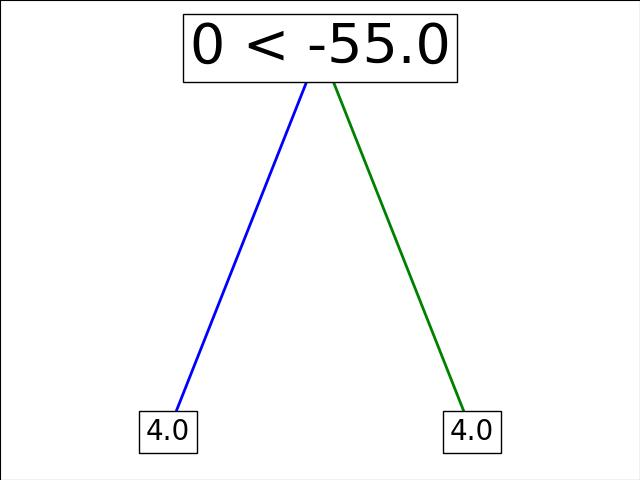
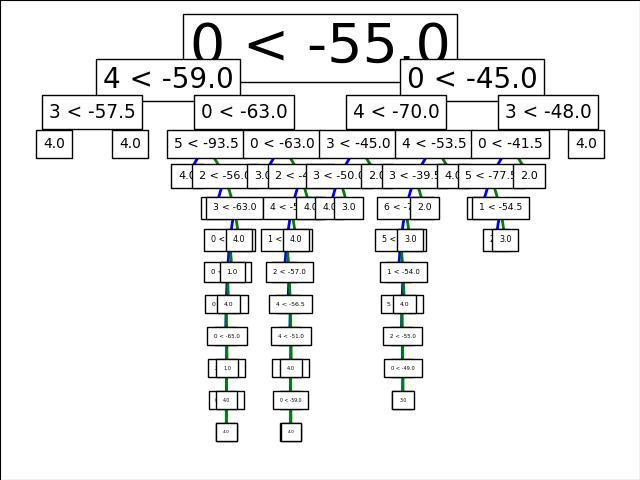
contains examples for the report

Changed region(s): [[0.0312, 0.0938, 0.9688, 0.9688]]

diff --git a/CW1/main.py b/CW1/main.py
@@ -71,6 +71,6 @@ if __name__ == '__main__':
         print(f'accuracy {type_}: {evaluate(test, post_pruning)}')
         print(f'metrics {type_}: {other_metrics(test, post_pruning)}')
 
-        print(f'final_tree {type_}: {decision_tree_learning(dataset[0], best_depth)}')
+        print(f'final_tree {type_}: {decision_tree_learning(dataset[0], 15)}')
         print_tree(dict(pre_pruning), f'pre_pruning_{type_}')
         print_tree(dict(post_pruning), f'post_pruning_{type_}')
